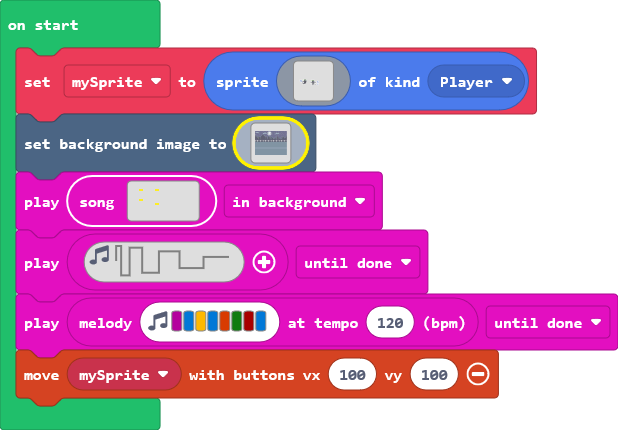
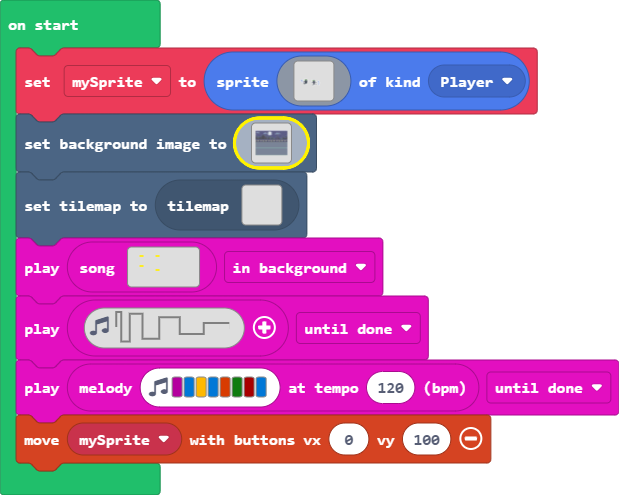
Update main.blocks, main.ts, tilemap.g.jres, tilemap.g.ts

diff --git a/tilemap.g.ts b/tilemap.g.ts
@@ -20,6 +20,33 @@ namespace myTiles {
     export const tile6 = image.ofBuffer(hex``);
     //% fixedInstance jres blockIdentity=images._tile
     export const tile8 = image.ofBuffer(hex``);
+    //% fixedInstance jres blockIdentity=images._tile
+    export const transparency16 = image.ofBuffer(hex``);
+
+    helpers._registerFactory("tilemap", function(name: string) {
+        switch(helpers.stringTrim(name)) {
+            case "level1":
+            case "level1":return tiles.createTilemap(hex`1000100000000000000000000000000000000000000000000000000000000000000000000000000000000000000000000000000000000000000000000000000000000000000000000000000000000000000000000000000000000000000000000000000000000000000000000000000000000000000000000000000000000000000000000000000000000000000000000000000000000000000000000000000000000000000000000000000000000000000000000000000000000000000000000000000000000000000000000000000000000000000000000000000000000000000000000000000000000000000000000000000000000000000000000000000000000000`, img`
+. . . . . . . . . . . . . . . . 
+. . . . . . . . . . . . . . . . 
+. . . . . . . . . . . . . . . . 
+. . . . . . . . . . . . . . . . 
+. . . . . . . . . . . . . . . . 
+. . . . . . . . . . . . . . . . 
+. . . . . . . . . . . . . . . . 
+. . . . . . . . . . . . . . . . 
+. . . . . . . . . . . . . . . . 
+. . . . . . . . . . . . . . . . 
+. . . . . . . . . . . . . . . . 
+. . . . . . . . . . . . . . . . 
+. . . . . . . . . . . . . . . . 
+. . . . . . . . . . . . . . . . 
+. . . . . . . . . . . . . . . . 
+. . . . . . . . . . . . . . . . 
+`, [myTiles.transparency16], TileScale.Sixteen);
+        }
+        return null;
+    })
 
     helpers._registerFactory("tile", function(name: string) {
         switch(helpers.stringTrim(name)) {
@@ -43,6 +70,7 @@ namespace myTiles {
             case "tile6":return tile6;
             case "Balloon0":
             case "tile8":return tile8;
+            case "transparency16":return transparency16;
         }
         return null;
     })

diff --git a/main.ts b/main.ts
@@ -172,7 +172,8 @@ scene.setBackgroundImage(img`
     bbbbbbbbbbbbbbbbbbbbbbbbbbbbbbbbbbbbbbbbbbbbbbbbbbbbbbbbbbbbbbbbbbbbbbbbbbbbbbbbbbbbbbbbbbbbbbbbbbbbbbbbbbbbbbbbbbbbbbbbbbbbbbbbbbbbbbbbbbbbbbbbbbbbbbbbbbbbbbbb
     bbbbbbbbbbbbbbbbbbbbbbbbbbbbbbbbbbbbbbbbbbbbbbbbbbbbbbbbbbbbbbbbbbbbbbbbbbbbbbbbbbbbbbbbbbbbbbbbbbbbbbbbbbbbbbbbbbbbbbbbbbbbbbbbbbbbbbbbbbbbbbbbbbbbbbbbbbbbbbbb
     `)
+tiles.setCurrentTilemap(tilemap`level1`)
[1 lines of base64/hex data omitted]
 music.play(music.createSoundEffect(WaveShape.Square, 5000, 1, 255, 0, 575, SoundExpressionEffect.None, InterpolationCurve.Logarithmic), music.PlaybackMode.UntilDone)
 music.play(music.stringPlayable("C E A E B G C5 E ", 120), music.PlaybackMode.UntilDone)
-controller.moveSprite(mySprite, 100, 100)
+controller.moveSprite(mySprite, 0, 100)
